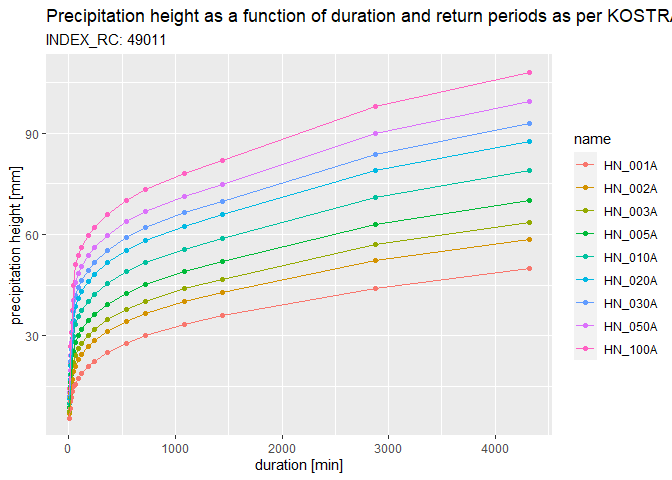
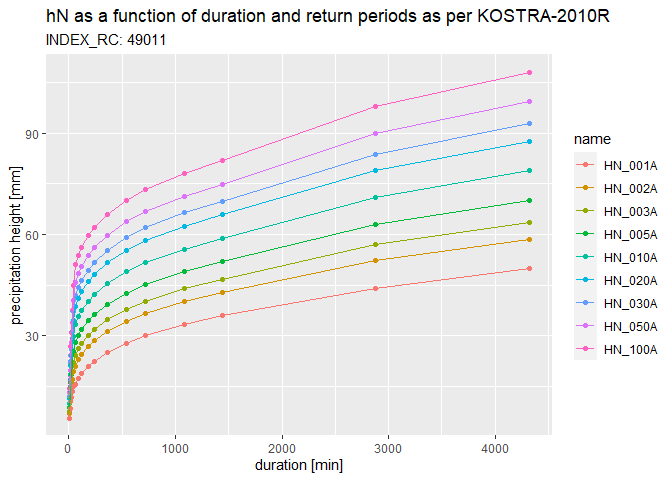
Update README.md
minor ggplot2 adjustments

Changed region(s): [[0.0625, 0.0, 1.0, 0.0625]]

diff --git a/README.md b/README.md
@@ -170,11 +170,7 @@ library(ggplot2)
 cnames <- colnames(kdata)[colnames(kdata) %>% stringr::str_detect("HN_*")]
 
 # making use of tidyr
-longdata <- tidyr::pivot_longer(kdata, cols = cnames)
-#> Note: Using an external vector in selections is ambiguous.
-#> i Use `all_of(cnames)` instead of `cnames` to silence this message.
-#> i See <https://tidyselect.r-lib.org/reference/faq-external-vector.html>.
-#> This message is displayed once per session.
+longdata <- tidyr::pivot_longer(kdata, cols = all_of(cnames))
 
 # plot the whole data set, colors according to return periods
 ggplot(longdata, aes(D_min, value, colour = name)) + 
@@ -182,7 +178,7 @@ ggplot(longdata, aes(D_min, value, colour = name)) +
   geom_line() +
   xlab("duration [min]") +
   ylab("precipitation height [mm]") +
-  ggtitle("Precipitation height as a function of duration and return periods as per KOSTRA-2010R",
+  ggtitle("hN as a function of duration and return periods as per KOSTRA-2010R",
           subtitle = paste0("INDEX_RC: ", attr(kdata, "index_rc")))
 ```
 
